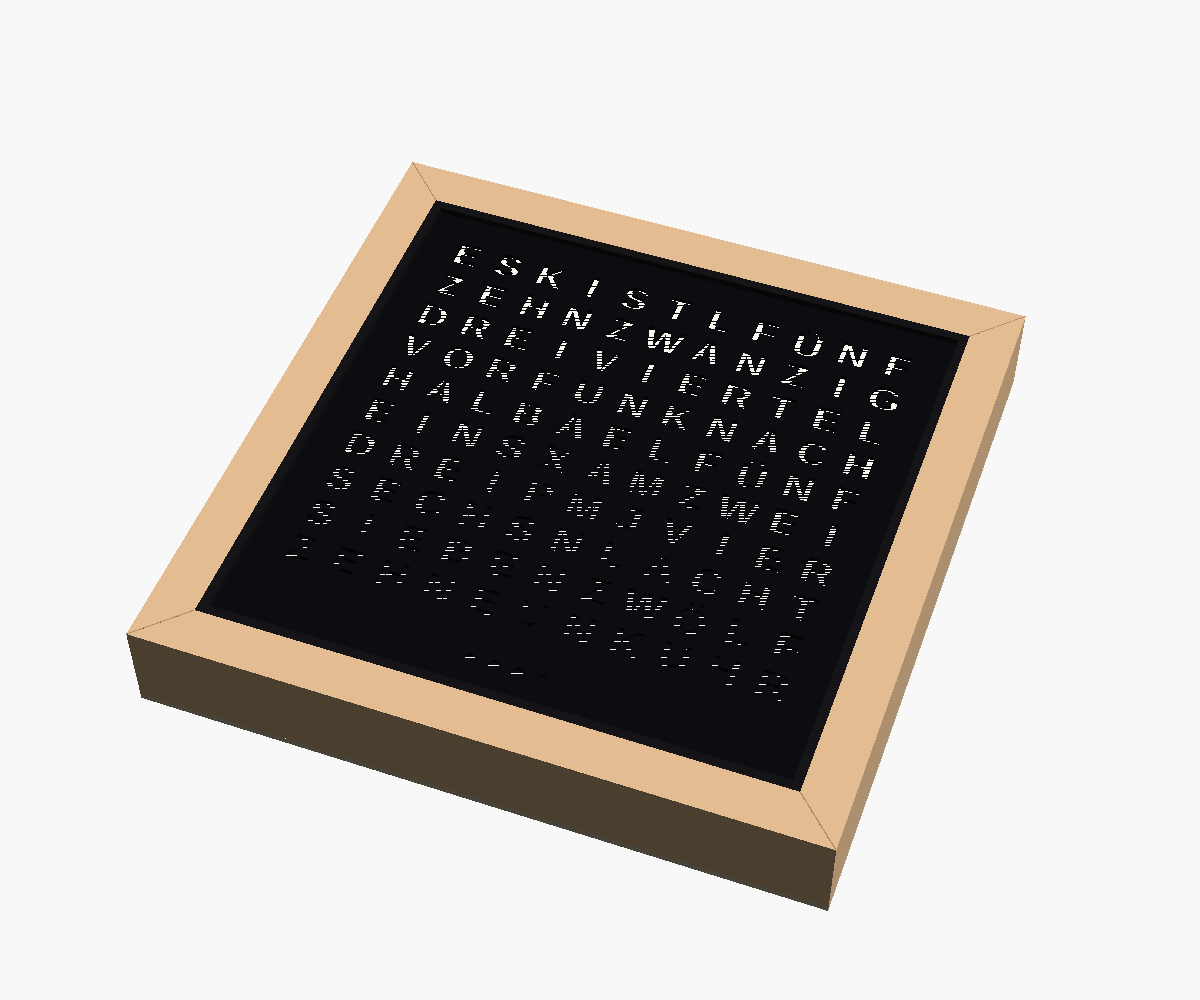
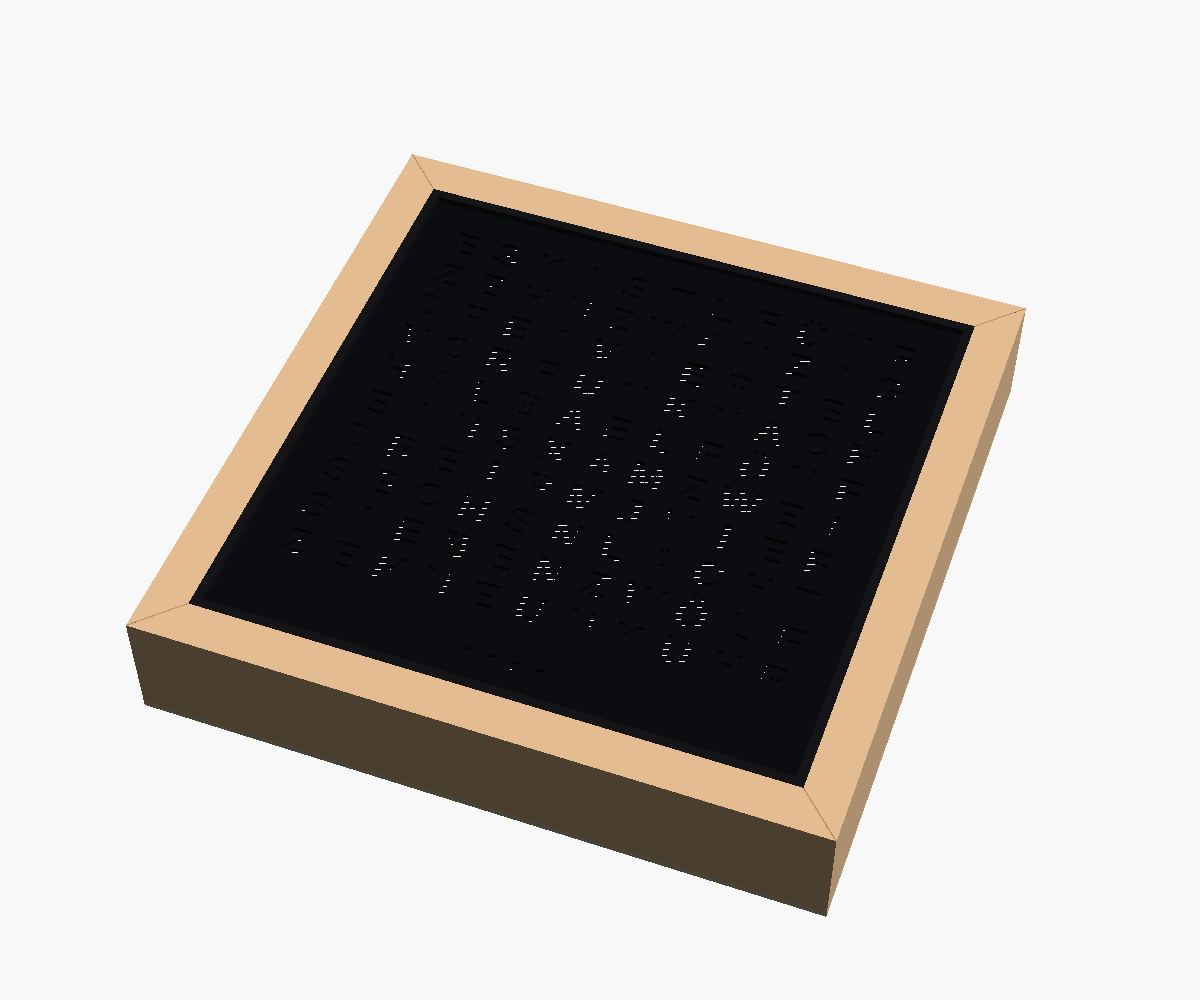
Holzrahmen: 50 mm tief fuer 22 mm hohe ESP32-Platine (Buche-Leimholz 18 x 50)

diff --git a/CLAUDE.md b/CLAUDE.md
@@ -33,7 +33,7 @@ Geburtstagsgeschenk-Wordclock. Sprache im Projekt: Deutsch. Bei fehlendem Kontex
 - Erledigt: 1:1-Lötvorlagen (PDF, 2 × A4) für Start oben links/rechts in docs/hardware, erzeugt mit `scripts/loetvorlage.py`. Ansicht = LED-Seite = Vorderansicht (nicht gespiegelt). Reihe 1 oben, Reihe 10 unten → Minutenpunkte.
 - Entschieden (10.11.): **Start oben links** (Vorderansicht). LED 0 = Reihe 1 links, Reihe 1 läuft nach rechts, Schlange; Reihe 10 endet links → Minutenpunkte LED 220–223 von links nach rechts. E2 rechts (Wende 5/6), E3 links. Vorlage: docs/hardware/loetvorlage_start_oben_links.pdf.
 - Offen: Streifen zuschneiden und verlöten; Lichtgitter sind noch im 3D-Druck.
-- Entschieden (12.11.): **Holzrahmen Buche** statt weißer L-Profile (Variante 1 verworfen, Dateien bleiben als Alternative). Leiste Buche 40 × 20 (BAUHAUS 14610733), 45°-Gehrung, außen 290,5, 20 mm sichtbar + 4 mm schwarzer gedruckter Anschlag, Front 3 mm zurück, Tiefe 43, Elektronikraum 17,4 mm. Rückwand Pappel-Sperrholz 3 mm (24815310), 8 Schrauben. Plan + Einkaufsliste docs/hardware/rahmen_holz.svg, Modell cad/rahmen_holz.scad. Offen: Elektronikhöhe prüfen (max. ~15 mm), Front messen, kaufen, bauen.
+- Entschieden (12.11.): **Holzrahmen Buche** statt weißer L-Profile (Variante 1 verworfen, Dateien bleiben als Alternative). Buche-Leimholz 18 mm als Streifen 18 × 50 (BAUHAUS 14455864, Zuschnitt 5 × 50 × 300), 45°-Gehrung, außen 286,5, 18 mm sichtbar + 4 mm schwarzer gedruckter Anschlag, Front 3 mm zurück, Tiefe 53, Elektronikraum 27,4 mm (ESP32-Platine ist 22 mm hoch). Rückwand Pappel-Sperrholz 3 mm (24815310), 8 Schrauben. Plan + Einkaufsliste docs/hardware/rahmen_holz.svg, Modell cad/rahmen_holz.scad. Offen: Front messen, kaufen, bauen.
 - Erledigt (10.11.): Uhr-Firmware komplett (Uhrzeit-Mapping, Farben, 8 Effekte, 7 Übergänge, eigener Text, Sprachvarianten, Nachtmodus, BH1750-Autohelligkeit, Geburtstags-Herzen, Alexa, Webseite mit CSS-3D-Live-Ansicht). Kompiliert (Flash 63 %), Webseite im Demo-Modus geprüft (auch 375 px Handybreite).
 - Erledigt (10.11.): Uhr-Firmware (Stand c35628a) auf ESP32 an COM7 geflasht – ersetzt den LED-Test (zurück: `pio run -e ledtest -t upload --upload-port COM7`). Bootet sauber, kein BH1750, startet Portal „Majas-Wordclock“ (noch kein WLAN gespeichert). Entwicklungs-Build → Auto-Update aus.
 - Erledigt (11.11.): versteckter LED-Testmodus auf der Webseite (5× auf „Mit ♥ für Maja gebaut“ tippen oder `#test`), kompiliert, Demo geprüft, mit 59b9cc7 geflasht.

diff --git a/docs/hardware/README.md b/docs/hardware/README.md
@@ -120,8 +120,8 @@ Leuchtet gar nichts: **zuerst prüfen, ob das Netzteil an ist** – ohne Netztei
 
 ![Ansicht](rahmen_holz_ansicht.png) ![Explosionsansicht](rahmen_holz_explosion.png)
 
-- Rechteckleiste Buche 100 × 40 × 20 mm (BAUHAUS Art.-Nr. 14610733, 2 Stück), hochkant: 20 mm sichtbar, 40 mm tief. 4 × 290,5 an der Außenkante, 45°-Gehrung, verleimt; gedruckte Eckwinkel hinten in den Ecken.
+- Buche-Leimholz 18 mm nach Maß (BAUHAUS Art.-Nr. 14455864), 5 Streifen 50 × 300 zuschneiden lassen, hochkant: 18 mm sichtbar, 50 mm tief. 4 × 286,5 an der Außenkante, 45°-Gehrung, verleimt; gedruckte Eckwinkel hinten in den Ecken. (Die fertige Leiste 40 × 20 war zu flach für die 22 mm hohe ESP32-Platine.)
 - Innen ein schwarzer, gedruckter Anschlag 4 × 3 mm bündig mit der Vorderkante → Front sitzt 3 mm zurück. Fenster 242,5 mm, Buchstaben 10,75 mm vom Anschlag.
-- Uhr von hinten einlegen, 8 Andruckklötze (15,4 mm) + 3 mm Moosgummi. Rückwand Pappel-Sperrholz 3 mm (Art.-Nr. 24815310), 290,5 × 290,5, 8 Schrauben 3 × 16, Lüftung, Kabelloch, Schlüsselloch.
-- Platz hinter dem LED-Träger: 17,4 mm → Elektronik max. ~15 mm hoch.
+- Uhr von hinten einlegen, 8 Andruckklötze (25,4 mm) + 3 mm Moosgummi. Rückwand Pappel-Sperrholz 3 mm (Art.-Nr. 24815310), 286,5 × 286,5, 8 Schrauben 3 × 16, Lüftung, Kabelloch, Schlüsselloch.
+- Platz hinter dem LED-Träger: 27,4 mm → ESP32-Platine (22 mm) passt mit 5,4 mm Luft. Gesamttiefe 53 mm, außen 286,5 × 286,5.
 - Modell: `cad/rahmen_holz.scad`. Druckteile über `part` = `anschlag_lang` (2×), `anschlag_kurz` (2×), `eckwinkel` (4×), `andruckklotz` (8×); Rückwand als `rueckwand_2d`.
